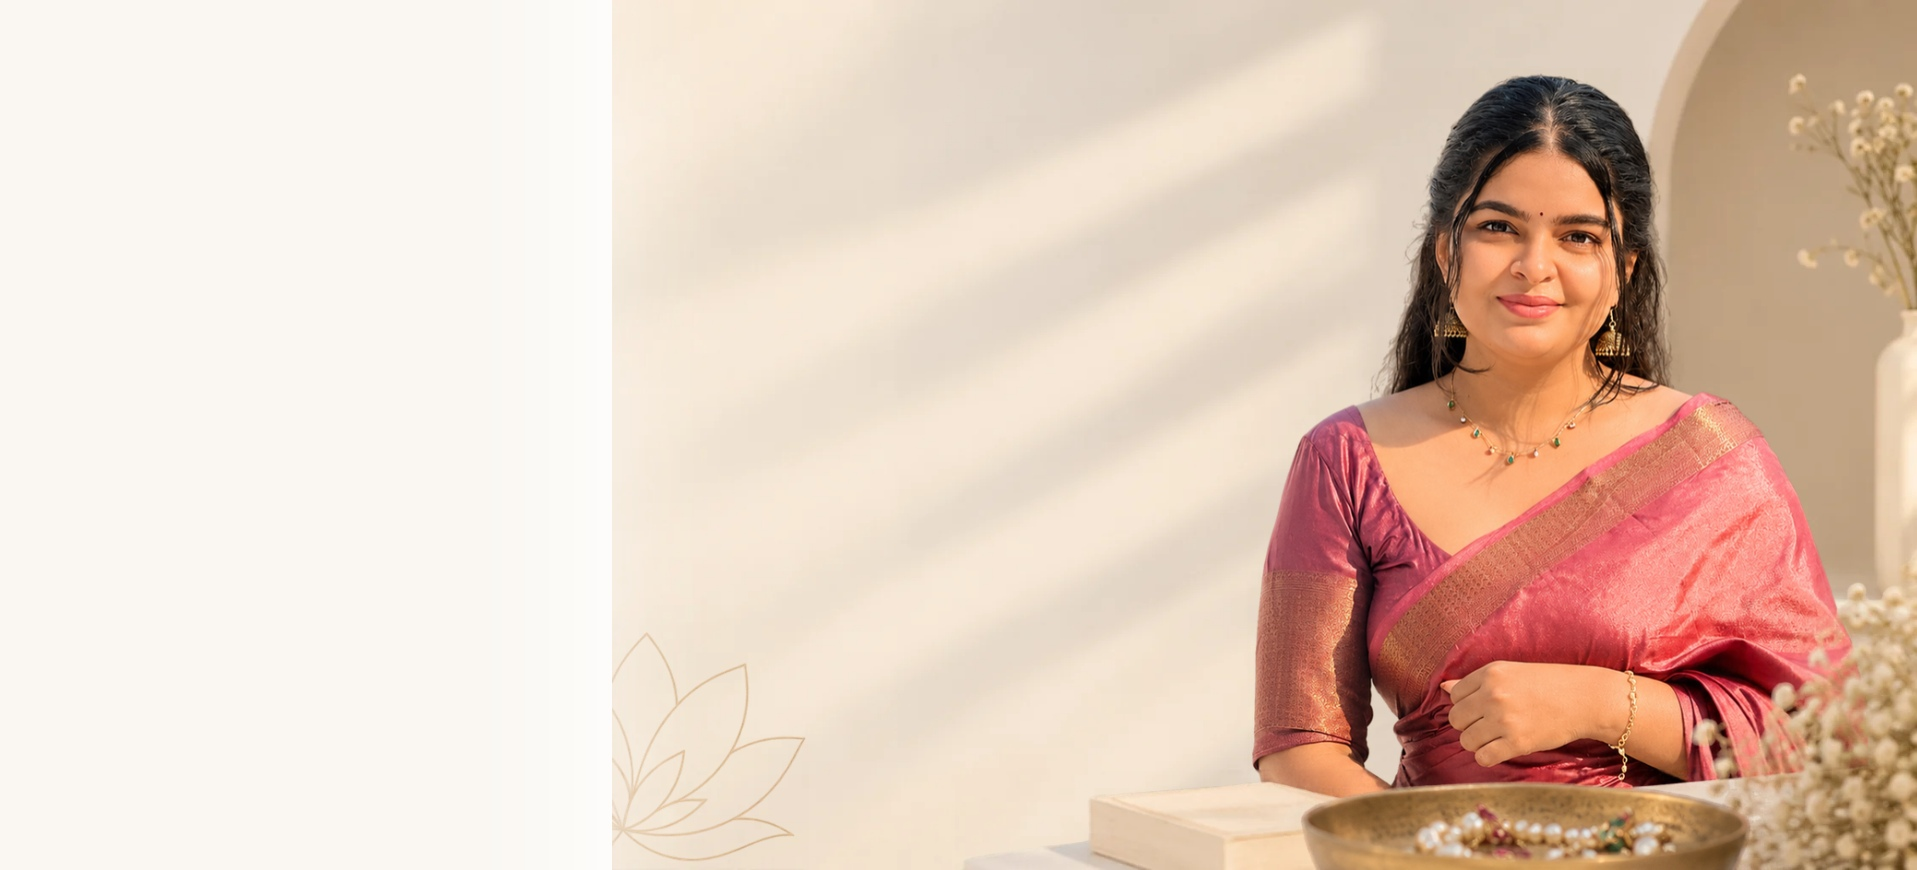
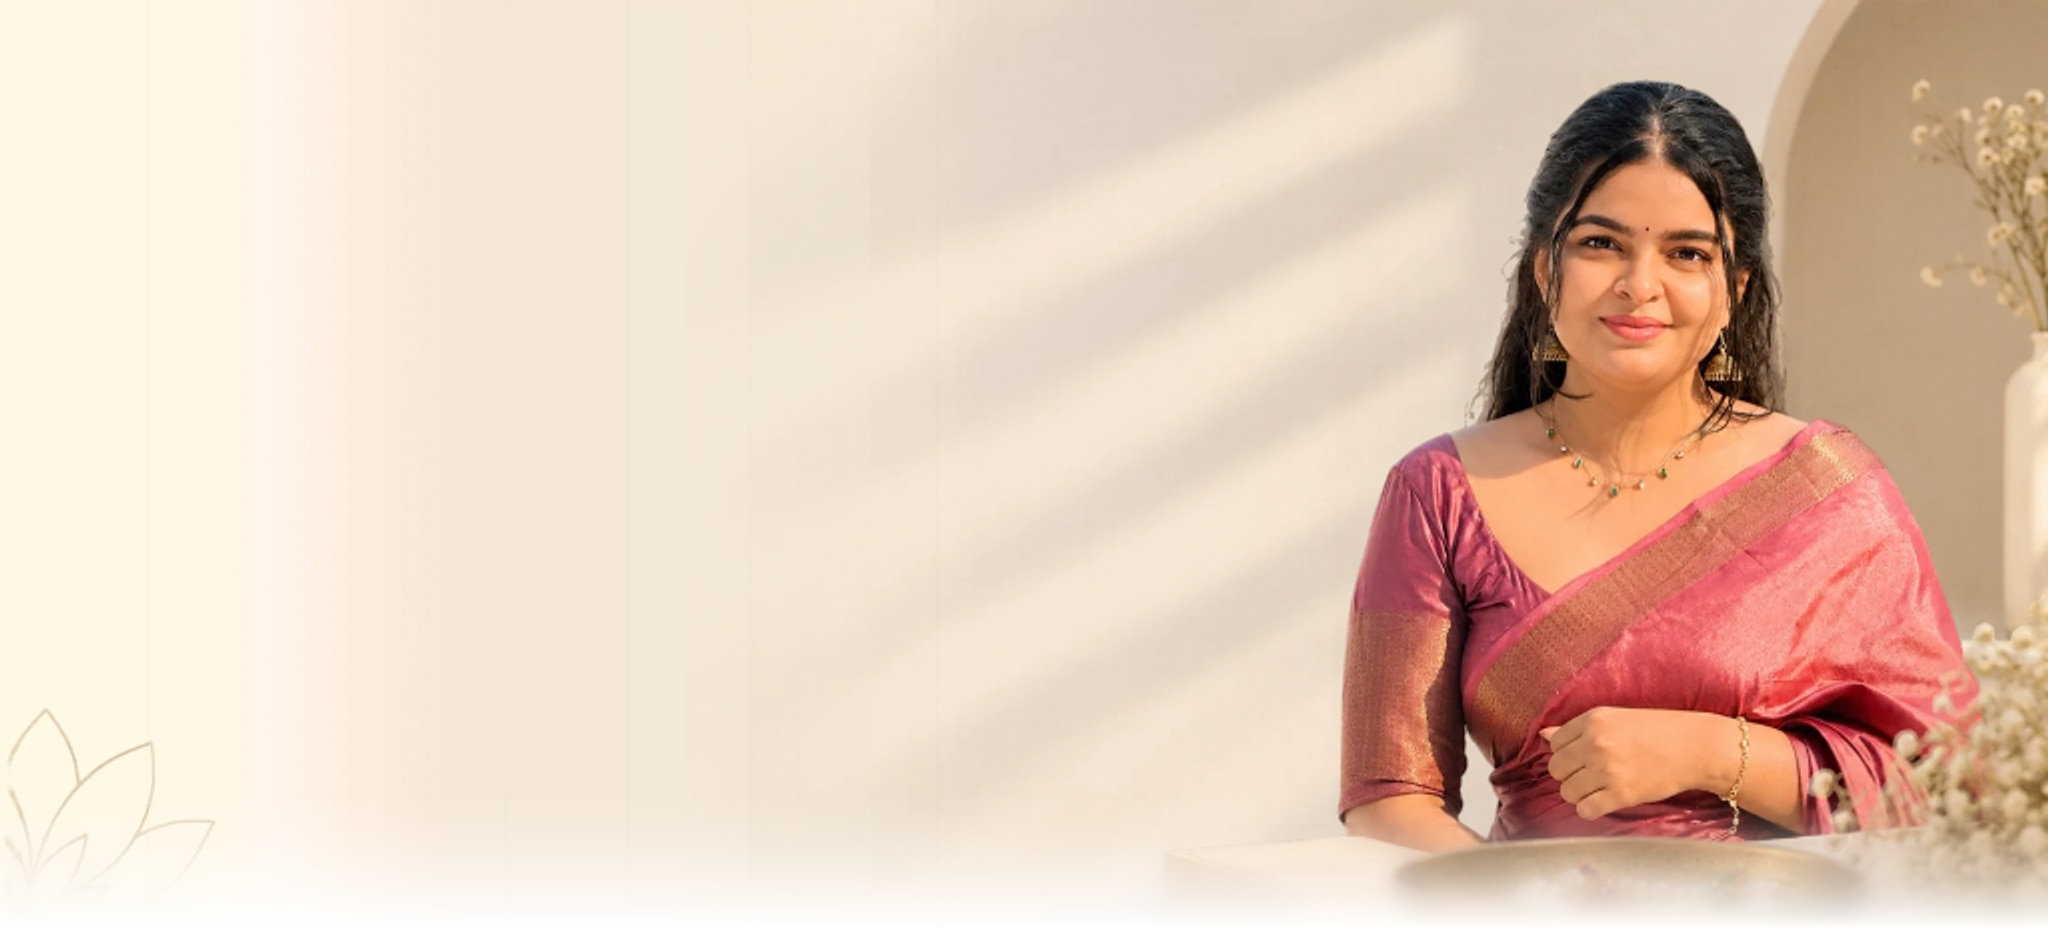
feat: use updated hero image with smooth bottom blur-to-white and enlarge subheading text

diff --git a/components/storefront/HeroEditorial.tsx b/components/storefront/HeroEditorial.tsx
@@ -7,22 +7,28 @@ import { storeConfig } from "@/config/store.config";
 
 export function HeroEditorial() {
   return (
-    <section className="relative w-full bg-[#FAF7F2] text-[#1C1917] overflow-hidden select-none border-b border-[#EADBBE]/60 lg:h-[100svh] lg:max-h-[100svh] flex flex-col justify-between">
+    <section className="relative w-full bg-[#FAF7F2] text-[#1C1917] overflow-hidden select-none border-b border-[#EADBBE]/40 lg:border-none lg:h-[100svh] lg:max-h-[100svh] flex flex-col justify-between">
       
       {/* ========================================================= */}
       {/* DESKTOP HERO: Strictly enclosed within the window (100svh) */}
       {/* ========================================================= */}
       <div className="hidden lg:block absolute inset-0 z-0 overflow-hidden pointer-events-none select-none">
-        <img
-          src="/images/founder-aleena-saree-hero.jpg"
-          alt="Aleena - Founder & Creative Soul, ALNAYA Timeless Jewellery"
-          className="w-full h-full object-cover object-[80%_center] xl:object-[84%_center]"
-          loading="eager"
-          decoding="sync"
-          style={{ imageRendering: "-webkit-optimize-contrast" }}
-        />
-        {/* Soft Left Ambient Feather: blends smoothly into the #FAF7F2 canvas */}
-        <div className="absolute inset-0 bg-gradient-to-r from-[#FAF7F2] via-[#FAF7F2]/80 to-transparent w-full max-w-2xl xl:max-w-3xl pointer-events-none" />
+        <picture>
+          <source srcSet="/images/founder-aleena-saree-hero.webp" type="image/webp" />
+          <img
+            src="/images/founder-aleena-saree-hero.jpg"
+            alt="Aleena - Founder & Creative Soul, ALNAYA Timeless Jewellery"
+            className="w-full h-full object-cover object-[80%_center] xl:object-[84%_center]"
+            loading="eager"
+            decoding="sync"
+            style={{ imageRendering: "-webkit-optimize-contrast" }}
+          />
+        </picture>
+        {/* Soft Left Ambient Feather: ensures typography has perfect contrast over sunlight */}
+        <div className="absolute inset-y-0 left-0 bg-gradient-to-r from-[#FAF7F2] via-[#FAF7F2]/60 to-transparent w-full max-w-xl xl:max-w-2xl pointer-events-none" />
+
+        {/* Bottom Smooth Blur-to-White Transition */}
+        <div className="absolute inset-x-0 bottom-0 h-32 lg:h-48 bg-gradient-to-t from-white via-white/80 to-transparent pointer-events-none backdrop-blur-[2px]" />
       </div>
 
       {/* Desktop Content Container (Vertically centered, fits 100% within viewport without scrolling) */}
@@ -53,29 +59,29 @@ export function HeroEditorial() {
 
           {/* Handwritten Script Kicker (From my heart) */}
           <div>
-            <span className="font-script text-2xl lg:text-3xl text-[#9A7B4F] select-none block leading-none">
+            <span className="font-script text-2xl lg:text-3xl xl:text-4xl text-[#9A7B4F] select-none block leading-none">
               From my heart
             </span>
           </div>
 
           {/* Display Headline (Hi, I'm Aleena) */}
-          <div className="space-y-1.5">
-            <h1 className="font-editorial text-4xl lg:text-5xl xl:text-[3.85rem] font-normal tracking-tight text-[#1C1917] leading-[1.06]">
+          <div className="space-y-2">
+            <h1 className="font-editorial text-4xl lg:text-5xl xl:text-[4rem] font-normal tracking-tight text-[#1C1917] leading-[1.06]">
               <span>Hi, I&apos;m </span>
               <span className="font-medium text-[#1C1917]">Aleena</span>
             </h1>
 
-            {/* Subheading / Role with Warm Gold Divider Line */}
-            <div className="space-y-1.5 pt-0.5">
-              <div className="text-[11px] font-bold uppercase tracking-[0.28em] text-[#786E5E]">
+            {/* Subheading / Role with Warm Gold Divider Line (Bigger, bolder presence) */}
+            <div className="space-y-1.5 pt-1">
+              <div className="text-xs lg:text-sm xl:text-[15px] font-bold uppercase tracking-[0.26em] text-[#786E5E]">
                 FOUNDER &amp; CREATIVE SOUL
               </div>
-              <div className="w-14 h-[1.5px] bg-gradient-to-r from-[#9A7B4F] via-[#C5A059] to-transparent rounded-full" />
+              <div className="w-16 lg:w-20 h-[2px] bg-gradient-to-r from-[#9A7B4F] via-[#C5A059] to-transparent rounded-full" />
             </div>
           </div>
 
           {/* Founder's Personal Manifesto */}
-          <p className="text-xs lg:text-sm xl:text-[15px] text-[#4A4235] font-light leading-relaxed max-w-xl font-sans">
+          <p className="text-sm lg:text-[15px] xl:text-base text-[#4A4235] font-light leading-relaxed max-w-xl font-sans">
             I started ALNAYA with a simple belief — that jewellery is more than just an accessory, it&apos;s a part of your story. Every piece is thoughtfully designed to bring out your unique beauty, celebrate your moments, and stay with you for a lifetime.
           </p>
 
@@ -176,7 +182,7 @@ export function HeroEditorial() {
 
             {/* Subheading / Role */}
             <div className="pt-0.5">
-              <span className="text-[8.5px] sm:text-[10px] font-bold uppercase tracking-[0.2em] text-[#786E5E] block leading-none">
+              <span className="text-[10px] sm:text-xs font-bold uppercase tracking-[0.22em] text-[#786E5E] block leading-none">
                 FOUNDER &amp; CREATIVE SOUL
               </span>
             </div>

diff --git a/app/page.tsx b/app/page.tsx
@@ -30,7 +30,7 @@ export default function HomePage() {
       <HeroEditorial />
 
       {/* 2. Curated Catalog / Shop by Category Grid (Positioned high up right below Hero) */}
-      <section className="w-full py-12 sm:py-20 border-b border-[#EADBBE]/60 bg-[#FAF7F2]">
+      <section className="w-full py-12 sm:py-20 border-b border-[#EADBBE]/60 bg-gradient-to-b from-white via-[#FAF7F2] to-[#FAF7F2]">
         <div className="max-w-7xl mx-auto px-4 sm:px-6 lg:px-8 space-y-6 sm:space-y-8">
           <div className="flex flex-col sm:flex-row sm:items-end justify-between gap-4">
             <div>
